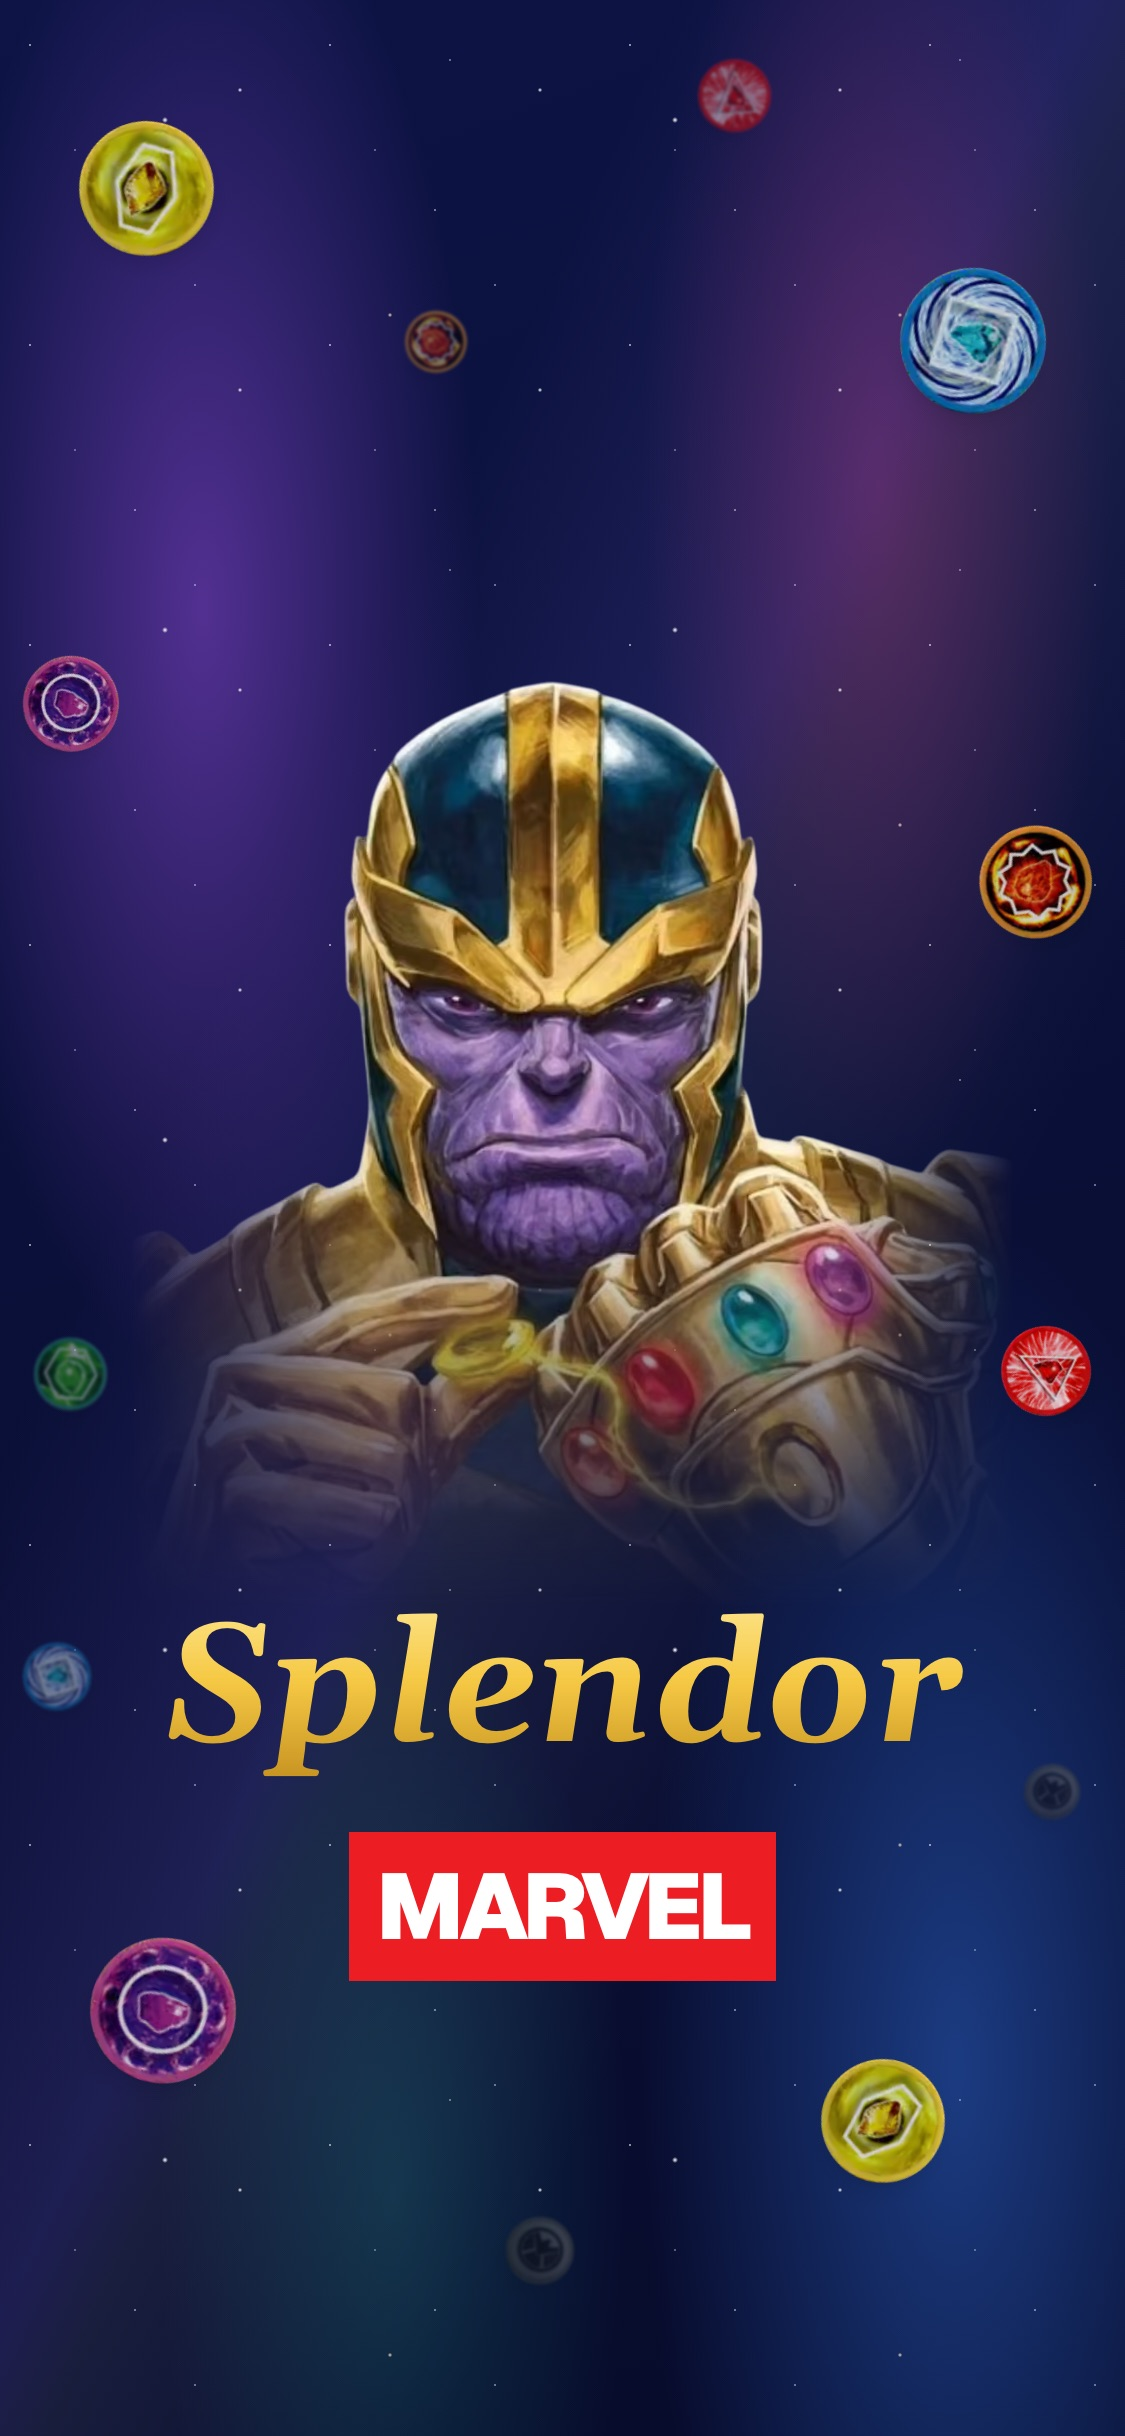
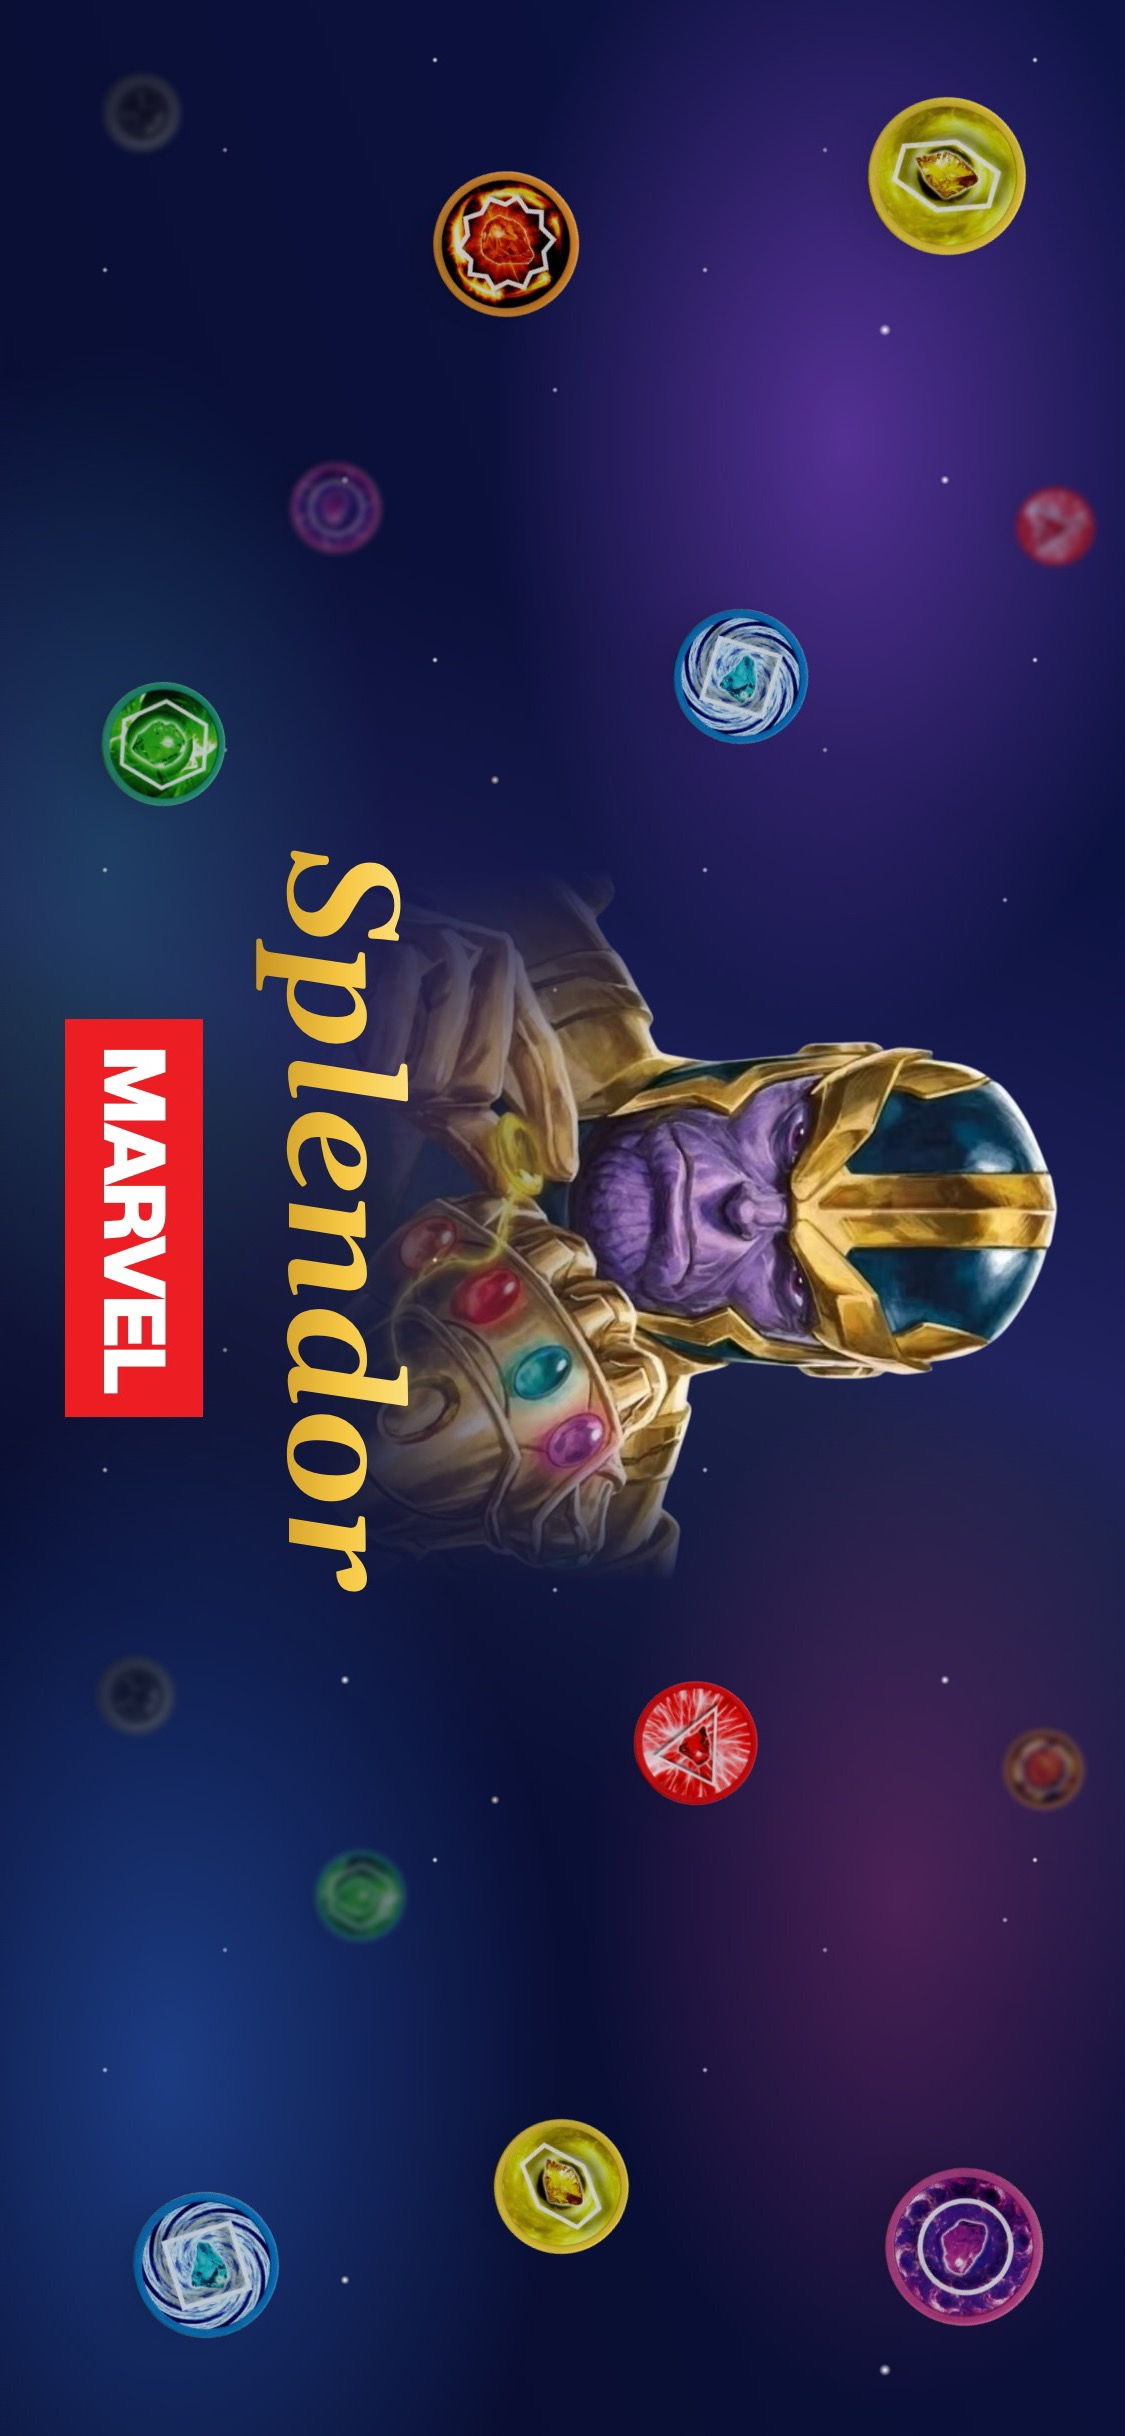
pwa: landscape-only launch picture, and a rotate notice with Thanos, the title and the stones

diff --git a/components/home/art.tsx b/components/home/art.tsx
@@ -76,7 +76,7 @@ const STONES: Stone[] = [
   { stone: "power", x: 17, y: 90, size: 6, tilt: 20, pace: 11, far: true },
 ];
 
-// The same for a phone held upright: spread from top to bottom, round Thanos and the name.
+// The same for a phone held upright: spread from top to bottom, round Thanos, the name and the line under it.
 const STONES_UPRIGHT: Stone[] = [
   { stone: "mind", x: 7, y: 5, size: 24, tilt: -18, pace: 7 },
   { stone: "soul", x: 36, y: 13, size: 11, tilt: 30, pace: 10, far: true },
@@ -88,9 +88,9 @@ const STONES_UPRIGHT: Stone[] = [
   { stone: "reality", x: 89, y: 55, size: 16, tilt: -35, pace: 8.5 },
   { stone: "space", x: 2, y: 68, size: 12, tilt: -22, pace: 9, far: true },
   { stone: "shield", x: 91, y: 73, size: 10, tilt: 18, pace: 10.5, far: true },
-  { stone: "power", x: 8, y: 80, size: 26, tilt: 20, pace: 7.5 },
-  { stone: "shield", x: 45, y: 91, size: 12, tilt: 40, pace: 10, far: true },
-  { stone: "mind", x: 73, y: 85, size: 22, tilt: 15, pace: 8 },
+  { stone: "power", x: 6, y: 91, size: 22, tilt: 20, pace: 7.5 },
+  { stone: "shield", x: 45, y: 95, size: 10, tilt: 40, pace: 10, far: true },
+  { stone: "mind", x: 78, y: 92, size: 20, tilt: 15, pace: 8 },
 ];
 
 // On its side, with Thanos in the middle: spread from edge to edge, either side of him.
@@ -111,7 +111,7 @@ const STONES_WIDE: Stone[] = [
   { stone: "shield", x: 68, y: 85, size: 7, tilt: 18, pace: 10.5, far: true },
 ];
 
-function DriftingStones({ stones }: { stones: Stone[] }) {
+function DriftingStones({ stones, lazy }: { stones: Stone[]; lazy?: boolean }) {
   return stones.map(({ stone, x, y, size, tilt, pace, far }, i) => (
     <span
       key={i}
@@ -125,7 +125,7 @@ function DriftingStones({ stones }: { stones: Stone[] }) {
         animationDelay: `${-i * 1.7}s`,
       }}
     >
-      <AssetImage src={`/assets/stones/${stone}-token.png`} alt="" />
+      <AssetImage src={`/assets/stones/${stone}-token.png`} alt="" lazy={lazy} />
     </span>
   ));
 }
@@ -146,15 +146,22 @@ export function WelcomeArt() {
 /**
  * Thanos in the middle, over whatever is passed in, with the stones all round:
  * spread from side to side, or from top to bottom on a phone held upright.
+ * It is drawn on every page but seldom shown, so its pictures wait until it is.
  */
 export function StackedArt({ upright, children }: { upright?: boolean; children: React.ReactNode }) {
   return (
     <>
-      <DriftingStones stones={upright ? STONES_UPRIGHT : STONES_WIDE} />
+      <DriftingStones stones={upright ? STONES_UPRIGHT : STONES_WIDE} lazy />
       <div className="absolute inset-0 flex flex-col items-center justify-center">
         {/* On its side there is no room to spare, so the empty sky above his head runs off the top. */}
-        <span className={cn("fade-edges relative aspect-[3/4]", upright ? "w-160" : "-mt-16 h-86")}>
-          <AssetImage src="/assets/thanos.png" alt="" sizes={upright ? "80vw" : "40vw"} className="object-contain" />
+        <span className={cn("fade-edges relative aspect-[3/4]", upright ? "w-140" : "-mt-16 h-86")}>
+          <AssetImage
+            src="/assets/thanos.png"
+            alt=""
+            sizes={upright ? "70vw" : "40vw"}
+            lazy
+            className="object-contain"
+          />
         </span>
         {/* Drawn up over where Thanos fades out. */}
         <div className="relative -mt-16">{children}</div>

diff --git a/app/layout.tsx b/app/layout.tsx
@@ -2,12 +2,10 @@ import type { Metadata, Viewport } from "next";
 import { Gelasio, Geist, Geist_Mono, Orbitron } from "next/font/google";
 import "./globals.css";
 
-import { RotateCw } from "lucide-react";
-
 import { LAUNCH_IMAGES } from "@/lib/launch-images";
 import { SITE_DESCRIPTION, SITE_NAME, siteUrl, THEME_COLOR } from "@/lib/site";
 import { AppWindow } from "@/components/AppWindow";
-import { LaunchArt } from "@/components/LaunchArt";
+import { LaunchArt, RotateNotice } from "@/components/LaunchArt";
 import { ThemeProvider } from "@/components/theme-provider";
 import { Toaster } from "@/components/ui/sonner";
 import { TooltipProvider } from "@/components/ui/tooltip";
@@ -66,7 +64,7 @@ export default function RootLayout({ children }: LayoutProps<"/">) {
   return (
     <html
       lang="en"
-      className={`${geistSans.variable} ${geistMono.variable} ${orbitron.variable} ${gelasio.variable} h-full antialiased`}
+      className={`${geistSans.variable} ${geistMono.variable} ${orbitron.variable} ${gelasio.variable} h-full bg-cosmos-950 antialiased`}
       suppressHydrationWarning
     >
       <body className="min-h-full flex flex-col">
@@ -74,14 +72,9 @@ export default function RootLayout({ children }: LayoutProps<"/">) {
           <TooltipProvider>
             <AppWindow />
             {/* The installed app opens on the launch picture; this holds it a little longer, then fades. */}
-            {/* ponytail: its pictures load in a browser tab too, where it is never shown. Draw it only once the page knows it is installed if that ever costs too much. */}
-            <LaunchArt className="launch-splash pointer-events-none fixed inset-0 z-[110] hidden [@media(display-mode:standalone)]:flex" />
+            <LaunchArt className="launch-splash pointer-events-none fixed inset-0 z-[110] hidden landscape:[@media(display-mode:standalone)]:flex" />
             {children}
-            {/* Every screen is laid out for landscape; a phone held upright is asked to turn. */}
-            <div className="fixed inset-0 z-[100] hidden flex-col items-center justify-center gap-4 bg-cosmos p-6 text-center font-display text-sm font-bold tracking-wide text-gold-400 uppercase portrait:max-md:flex">
-              <RotateCw className="size-10" />
-              Rotate your device to play
-            </div>
+            <RotateNotice />
             <Toaster />
           </TooltipProvider>
         </ThemeProvider>

diff --git a/components/LaunchArt.tsx b/components/LaunchArt.tsx
@@ -1,26 +1,43 @@
 import { cn } from "cn";
+import { RotateCw } from "lucide-react";
 
 import { StackedArt } from "@/components/home/art";
 import { Logo } from "@/components/home/Logo";
 
 /**
  * What an installed app opens on: Thanos over the game's name, with the
- * stones adrift all round. Each way up has its own layout, and the launch
- * pictures are photographs of it.
+ * stones adrift all round. It is laid out for a phone on its side, and the
+ * launch pictures are photographs of it.
  */
 export function LaunchArt({ className }: { className?: string }) {
   return (
     <div className={cn("stage dark overflow-hidden bg-cosmos", className)}>
-      <div className="relative h-100 w-full self-center portrait:hidden">
+      <div className="relative h-100 w-full self-center">
         <StackedArt>
           <Logo className="text-[calc(var(--spacing)*14)]" />
         </StackedArt>
       </div>
-      <div className="relative hidden size-full portrait:block">
-        <StackedArt upright>
-          <Logo className="text-[calc(var(--spacing)*30)]" />
-        </StackedArt>
-      </div>
+    </div>
+  );
+}
+
+/**
+ * Shown over everything while a phone is held upright, as every screen is
+ * laid out for landscape. It runs on past the bottom edge by the height of
+ * the status bar: an installed iPhone app measures the screen that much short.
+ */
+export function RotateNotice() {
+  return (
+    <div className="stage dark fixed inset-x-0 top-0 bottom-[calc(env(safe-area-inset-top,0px)*-1)] z-[100] hidden overflow-hidden bg-cosmos portrait:max-md:block">
+      <StackedArt upright>
+        <div className="flex flex-col items-center gap-[calc(var(--spacing)*8)]">
+          <Logo className="text-[calc(var(--spacing)*28)]" />
+          <p className="flex items-center gap-[calc(var(--spacing)*3)] font-display text-[calc(var(--spacing)*7.5)] font-bold tracking-wide whitespace-nowrap text-gold-400 uppercase">
+            <RotateCw className="size-[calc(var(--spacing)*11)]" />
+            Rotate your device to play
+          </p>
+        </div>
+      </StackedArt>
     </div>
   );
 }

diff --git a/components/game/AssetImage.tsx b/components/game/AssetImage.tsx
@@ -30,6 +30,7 @@ export function AssetImage({
   alt,
   sizes,
   preload,
+  lazy,
   className,
 }: {
   src: string;
@@ -37,6 +38,8 @@ export function AssetImage({
   sizes?: string;
   /** For the one big picture a screen opens on: fetched before the page is even read. */
   preload?: boolean;
+  /** For art that is usually hidden: not fetched until it is on screen. */
+  lazy?: boolean;
   className?: string;
 }) {
   const inherited = useContext(ImageSizes);
@@ -47,7 +50,7 @@ export function AssetImage({
       fill
       sizes={sizes ?? inherited}
       // No screen scrolls, so every picture is in view from the start: nothing to defer.
-      loading="eager"
+      loading={lazy ? "lazy" : "eager"}
       preload={preload}
       className={cn("object-cover", className)}
       draggable={false}

diff --git a/ARCHITECTURE.md b/ARCHITECTURE.md
@@ -296,11 +296,18 @@ Pictures are resized and served as AVIF or WebP, and cached for a month. Each pi
 An installed iPhone app shows a launch picture every time it opens: Thanos over the game's name on the night sky, with the stones adrift all round.
 
 - **One picture per screen.** An iPhone only uses a picture made for its exact screen, so there is one per screen size, each way up. The screens are listed in `data/launch-screens.json` and the pictures are in `public/launch`.
+- **The art is for a phone on its side.** The picture for a phone held upright is the same one turned a quarter, so it reads as "turn me". It reads the right way up once the phone is turned to the left.
 - **The pictures are photographs of a page.** `/launch-art` draws the art (`components/LaunchArt.tsx`), and `pnpm launch:images` photographs it at every screen size. Run it, with the dev server running, after changing the art or adding a screen. It needs Google Chrome and a Mac.
-- **Held a little longer.** iPhones take the launch picture down as soon as the app is ready, which cannot be changed. So the app holds the same art over itself for about two seconds as it opens, then fades it. This is in the installed app only, and plays again after signing in, since that reloads the app.
+- **Held a little longer.** iPhones take the launch picture down as soon as the app is ready, which cannot be changed. So the app holds the same art over itself for about two seconds as it opens, then fades it. This is in the installed app only, with the phone on its side, and plays again after signing in, since that reloads the app.
 - **The name is in a shipped font.** "Splendor" is set in Gelasio, which comes with the app, so it looks the same on every device and in the launch pictures.
-- **Each way up has its own layout.** Thanos sits over the name both ways. On its side the stones are spread from edge to edge; upright they are spread from top to bottom (`StackedArt` in `components/home/art.tsx`).
 - **Not covered:** iPads open on a plain dark screen. A phone that already has the app installed must remove and re-add it to pick up new pictures.
+
+**Turn-your-phone notice (done)**
+
+Every screen is laid out for landscape, so a phone held upright is shown a notice over everything: Thanos over the game's name and "Rotate your device to play", with the stones spread from top to bottom (`RotateNotice` in `components/LaunchArt.tsx`).
+
+- **It runs on past the bottom edge** by the height of the status bar. An installed iPhone app measures the screen that much short when upright, which left a black bar along the bottom. The page behind is the night sky's darkest blue for the same reason.
+- **Its pictures wait until it is shown.** It is drawn on every page, so its art is only fetched once the notice is on screen.
 
 **Phase 4 — stats and profiles**
 
